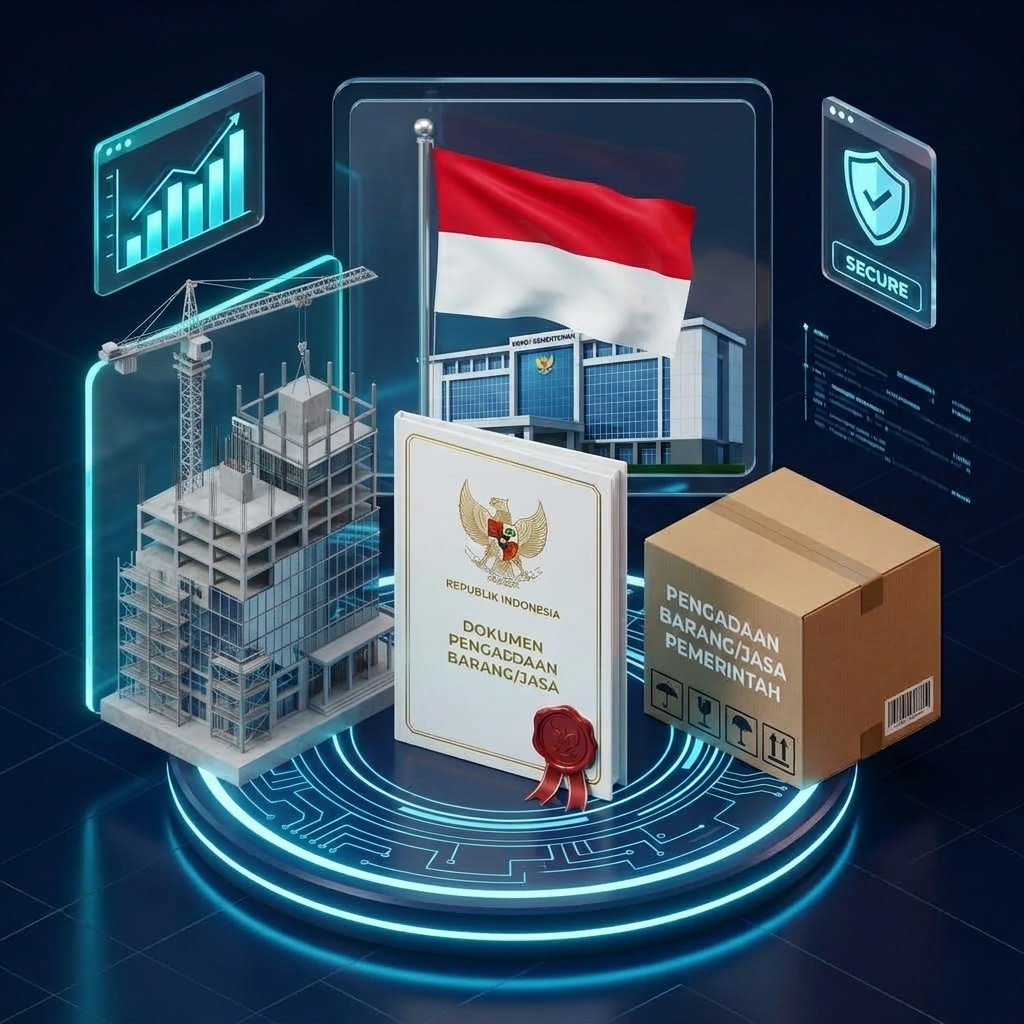
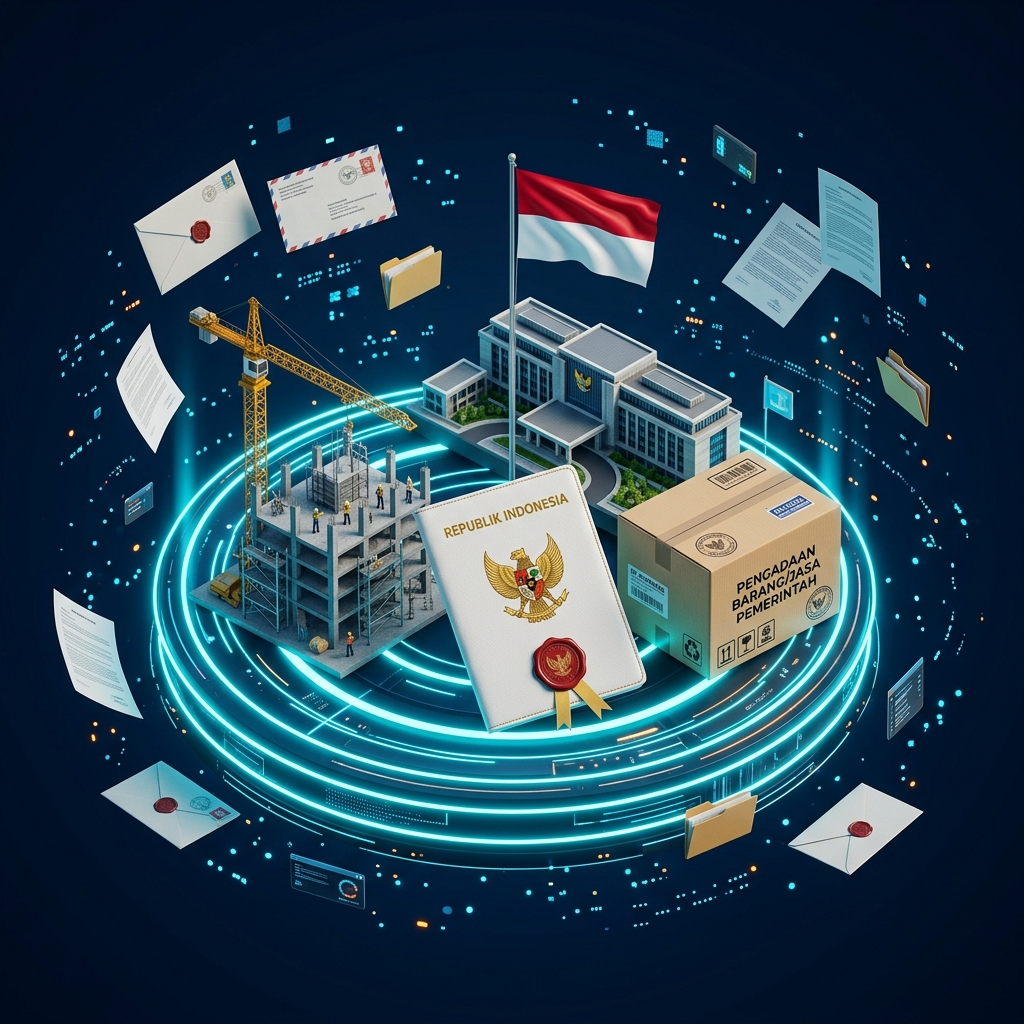
feat: add HeroSection component with interactive ProcurementVisualComposition and image asset

diff --git a/src/components/home/ProcurementVisualComposition.tsx b/src/components/home/ProcurementVisualComposition.tsx
@@ -29,61 +29,45 @@ export function ProcurementVisualComposition({ className = "" }: ProcurementVisu
       onMouseLeave={handleMouseLeave}
       style={{ perspective: 1200 }}
     >
-      {/* ================= 1. BASE NEON CONCENTRIC GLOW RINGS ================= */}
-      <div className="absolute -bottom-6 sm:-bottom-10 w-[95%] sm:w-[105%] h-36 sm:h-44 pointer-events-none flex items-center justify-center">
-        {/* Outer Glow Ring */}
-        <div 
-          className="absolute w-full h-full rounded-[100%] border-2 border-cyan-400/40 bg-gradient-to-t from-cyan-500/20 via-blue-600/10 to-transparent shadow-[0_0_80px_rgba(6,182,212,0.45)]"
-          style={{ transform: 'rotateX(76deg) translateZ(-40px)' }}
-        />
-        {/* Middle Pulse Ring */}
-        <motion.div 
-          animate={{ scale: [1, 1.04, 1], opacity: [0.6, 0.9, 0.6] }}
-          transition={{ repeat: Infinity, duration: 4, ease: "easeInOut" }}
-          className="absolute w-[80%] h-[80%] rounded-[100%] border border-cyan-300/70 bg-cyan-400/15 shadow-[0_0_50px_rgba(34,211,238,0.5)]"
-          style={{ transform: 'rotateX(76deg) translateZ(-20px)' }}
-        />
-      </div>
+      {/* ================= 1. SUBTLE BACKGROUND AMBIENT GLOW (SEAMLESS NAVY COMPOSITING) ================= */}
+      <div className="absolute inset-0 bg-[#07172E] rounded-full blur-2xl opacity-60 pointer-events-none -z-10" />
+      <div className="absolute inset-10 bg-gradient-to-tr from-blue-900/30 via-cyan-900/20 to-transparent rounded-full blur-3xl pointer-events-none -z-10" />
 
       {/* ================= 2. PARALLAX 3D COMPOSITION STAGE ================= */}
       <motion.div
         animate={{
-          y: [0, -10, 0],
+          y: [0, -8, 0],
         }}
         transition={{
           repeat: Infinity,
-          duration: 5.5,
+          duration: 6,
           ease: "easeInOut",
         }}
         style={{
-          rotateX: mousePos.y * -14,
-          rotateY: mousePos.x * 14,
+          rotateX: mousePos.y * -10,
+          rotateY: mousePos.x * 10,
           transformStyle: "preserve-3d",
         }}
-        className="relative w-full h-full flex items-center justify-center transition-transform duration-200 ease-out cursor-pointer group"
+        className="relative w-full h-full flex items-center justify-center transition-transform duration-300 ease-out cursor-pointer group"
       >
-        {/* Ambient Back Glow Aura */}
-        <div className="absolute inset-6 bg-gradient-to-tr from-cyan-500/30 via-blue-600/30 to-amber-500/20 rounded-3xl blur-3xl pointer-events-none" />
-
-        {/* ================= 3. MASTER 3D ARTWORK (FRAMELESS & SEAMLESS BLEND) ================= */}
-        <div className="relative w-full h-full overflow-visible [mask-image:radial-gradient(circle_at_center,#000_74%,transparent_100%)]">
+        {/* ================= 3. SEAMLESS BLENDED 3D ILLUSTRATION ================= */}
+        {/* The multi-stop feathered radial mask ensures the image background seamlessly dissolves into #07172E with ZERO hard edges */}
+        <div 
+          className="relative w-full h-full overflow-visible"
+          style={{
+            WebkitMaskImage: 'radial-gradient(circle at 50% 50%, #000 50%, rgba(0,0,0,0.95) 60%, rgba(0,0,0,0.6) 74%, rgba(0,0,0,0.15) 84%, transparent 92%)',
+            maskImage: 'radial-gradient(circle at 50% 50%, #000 50%, rgba(0,0,0,0.95) 60%, rgba(0,0,0,0.6) 74%, rgba(0,0,0,0.15) 84%, transparent 92%)',
+          }}
+        >
           <Image
             src="/hero/hero-procurement-kemnaker-master.jpg"
-            alt="3D Komposisi Pengadaan Barang dan Jasa Kemnaker RI dengan Bendera Merah Putih, Dokumen Pengadaan, Buku Resmi RI, dan Kardus Logistik"
+            alt="3D Komposisi Pengadaan Barang dan Jasa Kemnaker RI dengan Gedung Proyek Konstruksi, Buku Resmi RI, Kardus Logistik, dan Bendera Merah Putih"
             fill
             priority
             sizes="(max-width: 768px) 100vw, 600px"
-            className="object-cover object-center transform group-hover:scale-[1.03] transition-transform duration-700 ease-out drop-shadow-[0_20px_50px_rgba(0,0,0,0.9)]"
-          />
-
-          {/* Futuristic Scanning Laser Bar */}
-          <motion.div
-            animate={{ y: ['-100%', '320%'] }}
-            transition={{ repeat: Infinity, duration: 4.2, ease: "linear" }}
-            className="absolute inset-x-0 h-16 bg-gradient-to-b from-transparent via-cyan-400/20 to-transparent border-b border-cyan-400/30 pointer-events-none"
+            className="object-cover object-center transform group-hover:scale-[1.02] transition-transform duration-700 ease-out"
           />
         </div>
-
       </motion.div>
     </div>
   );

diff --git a/src/components/home/HeroSection.tsx b/src/components/home/HeroSection.tsx
@@ -53,9 +53,9 @@ export function HeroSection() {
               animate={{ opacity: 1, y: 0 }}
               transition={{ duration: 0.6, delay: 0.1 }}
             >
-              <h1 className="text-3xl sm:text-5xl lg:text-6xl font-extrabold text-white tracking-tight leading-[1.12] mb-3 sm:mb-4">
+              <h1 className="text-2xl sm:text-3xl md:text-4xl lg:text-[2.6rem] xl:text-[3.1rem] font-extrabold text-white tracking-normal leading-[1.3] sm:leading-[1.24] mb-4 sm:mb-5">
                 {trans('Pengadaan Barang/Jasa', 'Goods & Services Procurement')}{' '}
-                <span className="block text-transparent bg-clip-text bg-gradient-to-r from-amber-300 via-yellow-200 to-amber-400 drop-shadow-sm">
+                <span className="block mt-1 sm:mt-2 text-transparent bg-clip-text bg-gradient-to-r from-amber-300 via-yellow-200 to-amber-400 drop-shadow-sm whitespace-nowrap">
                   {trans('untuk Indonesia Maju', 'for Advanced Indonesia')}
                 </span>
               </h1>
